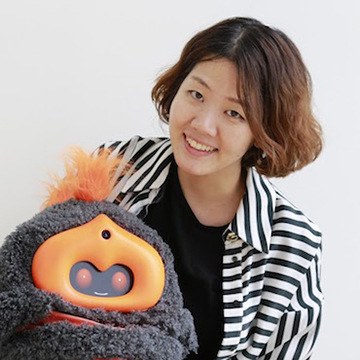
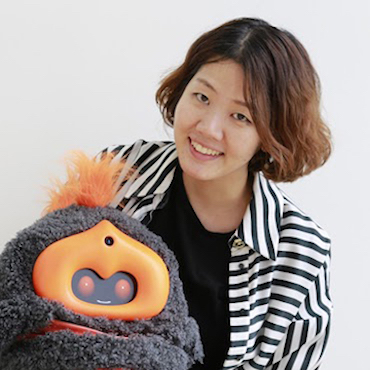
fixed hae & saf images

diff --git a/index.html b/index.html
@@ -1947,7 +1947,7 @@
                    <div class="team-box item">
                        <!--Team Image-->
                        <div class="team-image">
-                           <img src="images/team-safinah%20copy.jpg" alt="image">
+                           <img src="images/team-safinah.jpg" alt="image">
                            <!--Team Overlay-->
                            <div class="overlay center-block">
                                <!--Team Social-->
